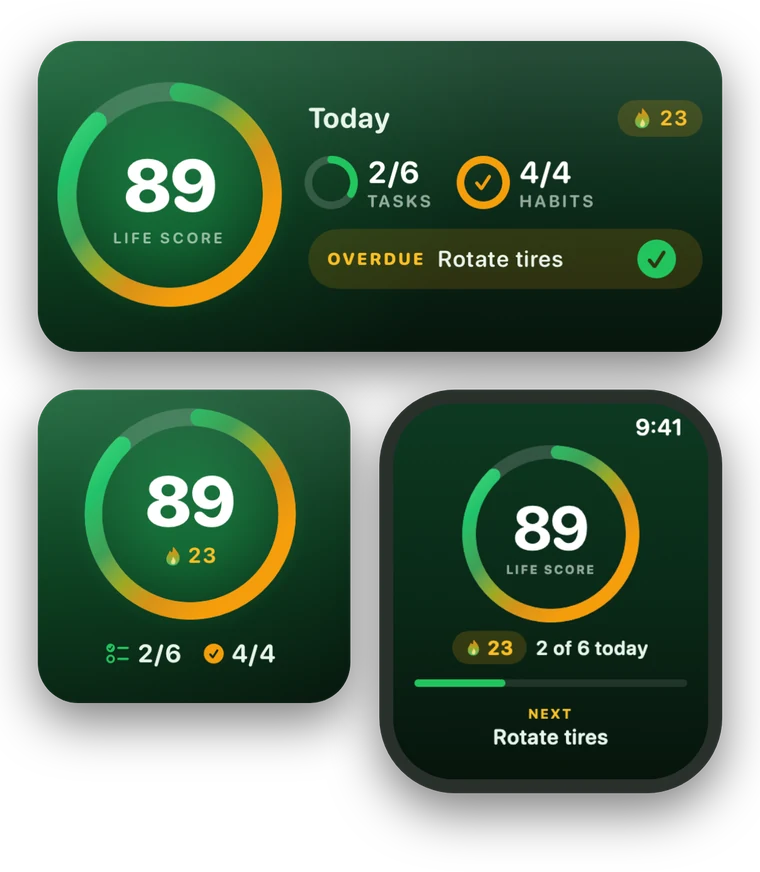
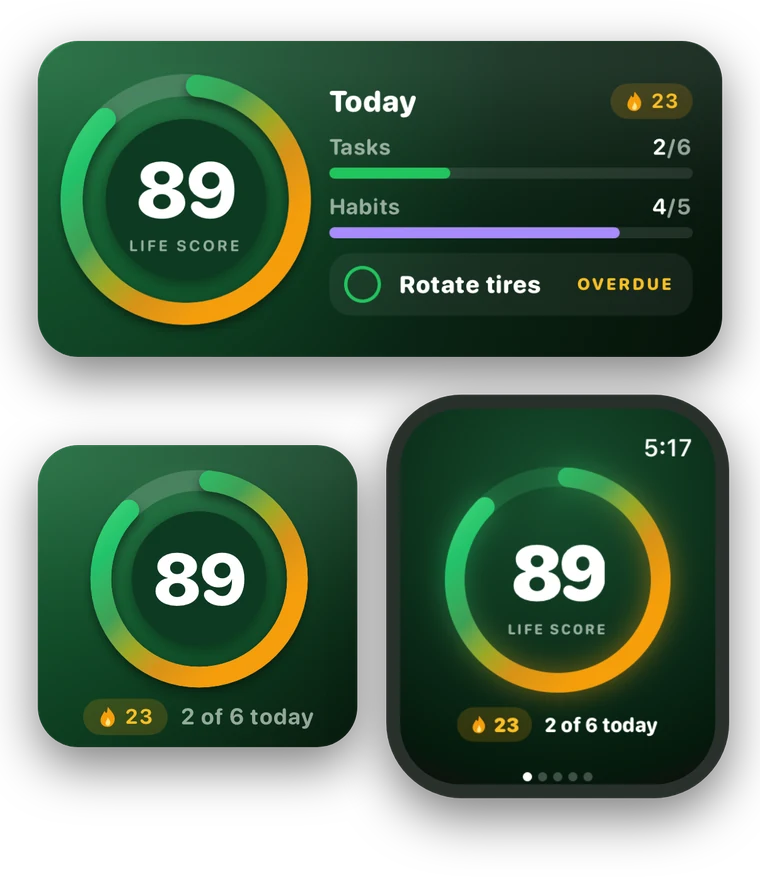
Match build 104: current app and Watch images, programs, challenges and friends cards, 49 task packs, 37 habit packs, 5 free habits

diff --git a/support/index.html b/support/index.html
@@ -69,7 +69,7 @@ footer .wrap{display:flex;justify-content:space-between;flex-wrap:wrap;gap:12px}
   </div>
 </header>
 <main class="wrap"><div class="help">
-  <h2>Getting started</h2><div class="qa"><h3>What is my Life Score?</h3><p>A number from 0 to 100 built from three things: your tasks that aren't overdue, what you've finished in the last 30 days compared with what came due, and your habit check-ins over the last 7 days. A streak adds a bonus of up to 15. Tap your score on Home to see every point and what would raise it most.</p></div><div class="qa"><h3>Why is my score already in the 50s on day one?</h3><p>For your first two weeks the score starts near the middle and settles as you complete things, so one good or bad day doesn't swing it. Every task and habit you finish still moves it. The card on Home says “Calibrating” until it has settled.</p></div><div class="qa"><h3>What's the difference between a task and a habit?</h3><p>Habits are routines you do every day, on weekdays, on weekends or once a week, and they keep a streak. Tasks are the things that come due now and then, from weekly to every few years, like changing a filter or a checkup. Anything daily is a habit.</p></div><div class="qa"><h3>Is LifeCheck medical or financial advice?</h3><p>No. LifeCheck offers general information and reminders, not medical, mental health, financial, tax, legal or other professional advice. Talk to a qualified professional about your situation. In an emergency, call 911 or your local emergency number. In the US, call or text 988 for crisis support.</p></div><div class="qa"><h3>I picked something in setup and can't find it.</h3><p>Daily picks, like “Drink water”, are in the Habits tab. Everything else is on Home.</p></div><div class="qa"><h3>What's free and what's Pro?</h3><p>Free, forever: all your tasks, 3 habits, 5 categories (Health, Home, Finance, Personal and Safety), your Life Score, the Weekly Review and 30 days of history. The five recovery programs (bet-free, alcohol-free, nicotine, cannabis and spending) are free too. Pro adds unlimited habits, all 13 categories, the other 30-day programs, Apple Health, your full history and recaps, and more. You can preview any program before deciding.</p></div><h2>Friends and challenges</h2><div class="qa"><h3>What do my friends see?</h3><p>Your name, Life Score and streak, plus the badges you earn and challenges you win. The names of tasks you complete stay private unless you turn on <b>Settings &gt; What friends see &gt; Tasks I complete</b>. Turning it off later also removes your past task posts.</p></div><div class="qa"><h3>How do challenges work?</h3><p>Start one from a template or make your own in Friends > Challenges, and invite friends. Each day you finish something that counts (a matching task or habit) is one check-in, once a day. The most check-ins at the end wins.</p></div><div class="qa"><h3>What's an Apple Health challenge?</h3><p>Challenges like 10K Steps a Day, Daily Workout or Sleep 7+ Hours check you in by themselves when Apple Health shows the goal met, the next time you open the app. Only the check-in is shared, never your health numbers. Without Apple Health connected, a matching task or habit checks you in instead.</p></div><div class="qa"><h3>Someone is bothering me.</h3><p>Tap the ⋯ next to their name, or on a challenge they started, to block or report them. Blocked people can't add you, invite you or send you notifications.</p></div><h2>Pro and purchases</h2><div class="qa"><h3>How do I cancel Pro?</h3><p>Pro is billed by Apple, so it's cancelled through Apple: <b>Settings &gt; Premium &gt; Manage subscription</b> in the app takes you straight there. You keep Pro until the end of the period you've paid for.</p></div><div class="qa"><h3>I bought Pro but it's not showing.</h3><p>Go to <b>Settings &gt; Premium &gt; Restore purchases</b>. That fixes it almost every time, and it's also what to do on a new phone or after reinstalling.</p><p>Still locked? Email us with roughly when you bought it.</p></div><h2>Your account</h2><div class="qa"><h3>How do I delete my account?</h3><p><b>Settings &gt; Account &gt; Delete Account</b>. It removes your account and its data, and can't be undone.</p></div><div class="qa"><h3>Will I lose my data if I change phones?</h3><p>Not if you have an account: sign in from <b>Settings &gt; Account</b> and your data is backed up and comes back on the new phone. Without an account it lives only on this phone.</p></div><div class="qa"><h3>Can I get a copy of my data?</h3><p>Yes: <b>Settings &gt; Health & data &gt; Export Records</b>.</p></div><h2>Streaks and your score</h2><div class="qa"><h3>I missed a day. Did I lose my streak?</h3><p>Probably not, once your streak is 3 days or longer. You get one grace day a month, and the app asks before using it (with Pro they're unlimited and used automatically). After that, streak freezes cover a missed day on their own: you earn one for every 7 days of streak and every 25 completions, and can hold up to 3.</p></div><div class="qa"><h3>I'm going away for a while.</h3><p>Turn on <b>Settings &gt; Tools &gt; Vacation pause</b> before you leave and your streak waits for you.</p></div><div class="qa"><h3>Why did my score go down?</h3><p>Usually an overdue task: those pull the score down the most. Tap your score on Home to see where every point comes from and which task would raise it most.</p></div><h2>Reminders, widgets and Watch</h2><div class="qa"><h3>How do I change when something reminds me?</h3><p>Each task and habit has its own time. Open a habit's editor and pick a reminder time, or open a task and set its reminder (custom times on tasks are part of Pro). Program reminders have their time on the program's page.</p></div><div class="qa"><h3>I'm not getting reminders.</h3><p>Check <b>Settings &gt; Notifications</b> in LifeCheck, and that notifications are allowed for LifeCheck in your iPhone's Settings. Quiet hours there will also hold them back.</p></div><div class="qa"><h3>How do I add the widget?</h3><p>Touch and hold an empty spot on your Home Screen, tap Edit, then Add Widget, and pick LifeCheck. There's a Lock Screen widget too.</p></div><div class="qa"><h3>Does it work on Apple Watch?</h3><p>Yes. Install LifeCheck from the Watch app on your iPhone, and add it to a watch face if you like.</p></div><div class="qa"><h3>How does Apple Health work with it?</h3><p>Connect it in <b>Settings &gt; Health & data &gt; Apple Health</b>. For each habit Health can confirm, like “Walk 8,000 steps”, “Get 7+ hours of sleep” or “Exercise for 30 minutes”, you choose whether it may check that habit in for you. You can also log a workout to Health when you finish a workout task. It's part of Pro, and your health data stays on your phone.</p></div><div class="qa"><h3>Is there an Android version?</h3><p>Not yet. LifeCheck is iPhone only for now.</p></div>
+  <h2>Getting started</h2><div class="qa"><h3>What is my Life Score?</h3><p>A number from 0 to 100 built from three things: your tasks that aren't overdue, what you've finished in the last 30 days compared with what came due, and your habit check-ins over the last 7 days. A streak adds a bonus of up to 15. Tap your score on Home to see every point and what would raise it most.</p></div><div class="qa"><h3>Why is my score already in the 50s on day one?</h3><p>For your first two weeks the score starts near the middle and settles as you complete things, so one good or bad day doesn't swing it. Every task and habit you finish still moves it. The card on Home says “Calibrating” until it has settled.</p></div><div class="qa"><h3>What's the difference between a task and a habit?</h3><p>Habits are routines you do every day, on weekdays, on weekends or once a week, and they keep a streak. Tasks are the things that come due now and then, from weekly to every few years, like changing a filter or a checkup. Anything daily is a habit.</p></div><div class="qa"><h3>Is LifeCheck medical or financial advice?</h3><p>No. LifeCheck offers general information and reminders, not medical, mental health, financial, tax, legal or other professional advice. Talk to a qualified professional about your situation. In an emergency, call 911 or your local emergency number. In the US, call or text 988 for crisis support.</p></div><div class="qa"><h3>I picked something in setup and can't find it.</h3><p>Daily picks, like “Drink water”, are in the Habits tab. Everything else is on Home.</p></div><div class="qa"><h3>What's free and what's Pro?</h3><p>Free, forever: all your tasks, 5 habits, 5 categories (Health, Home, Finance, Personal and Safety), your Life Score, the Weekly Review and 30 days of history. The five recovery programs (bet-free, alcohol-free, nicotine, cannabis and spending) are free too. Pro adds unlimited habits, all 13 categories, the other 30-day programs, Apple Health, your full history and recaps, and more. You can preview any program before deciding.</p></div><h2>Friends and challenges</h2><div class="qa"><h3>What do my friends see?</h3><p>Your name, Life Score and streak, plus the badges you earn and challenges you win. The names of tasks you complete stay private unless you turn on <b>Settings &gt; What friends see &gt; Tasks I complete</b>. Turning it off later also removes your past task posts.</p></div><div class="qa"><h3>How do challenges work?</h3><p>Start one from a template or make your own in Friends > Challenges, and invite friends. Each day you finish something that counts (a matching task or habit) is one check-in, once a day. The most check-ins at the end wins.</p></div><div class="qa"><h3>What's an Apple Health challenge?</h3><p>Challenges like 10K Steps a Day, Daily Workout or Sleep 7+ Hours check you in by themselves when Apple Health shows the goal met, the next time you open the app. Only the check-in is shared, never your health numbers. Without Apple Health connected, a matching task or habit checks you in instead.</p></div><div class="qa"><h3>Someone is bothering me.</h3><p>Tap the ⋯ next to their name, or on a challenge they started, to block or report them. Blocked people can't add you, invite you or send you notifications.</p></div><h2>Pro and purchases</h2><div class="qa"><h3>How do I cancel Pro?</h3><p>Pro is billed by Apple, so it's cancelled through Apple: <b>Settings &gt; Premium &gt; Manage subscription</b> in the app takes you straight there. You keep Pro until the end of the period you've paid for.</p></div><div class="qa"><h3>I bought Pro but it's not showing.</h3><p>Go to <b>Settings &gt; Premium &gt; Restore purchases</b>. That fixes it almost every time, and it's also what to do on a new phone or after reinstalling.</p><p>Still locked? Email us with roughly when you bought it.</p></div><h2>Your account</h2><div class="qa"><h3>How do I delete my account?</h3><p><b>Settings &gt; Account &gt; Delete Account</b>. It removes your account and its data, and can't be undone.</p></div><div class="qa"><h3>Will I lose my data if I change phones?</h3><p>Not if you have an account: sign in from <b>Settings &gt; Account</b> and your data is backed up and comes back on the new phone. Without an account it lives only on this phone.</p></div><div class="qa"><h3>Can I get a copy of my data?</h3><p>Yes: <b>Settings &gt; Health & data &gt; Export Records</b>.</p></div><h2>Streaks and your score</h2><div class="qa"><h3>I missed a day. Did I lose my streak?</h3><p>Probably not, once your streak is 3 days or longer. You get one grace day a month, and the app asks before using it (with Pro they're unlimited and used automatically). After that, streak freezes cover a missed day on their own: you earn one for every 7 days of streak and every 25 completions, and can hold up to 3.</p></div><div class="qa"><h3>I'm going away for a while.</h3><p>Turn on <b>Settings &gt; Tools &gt; Vacation pause</b> before you leave and your streak waits for you.</p></div><div class="qa"><h3>Why did my score go down?</h3><p>Usually an overdue task: those pull the score down the most. Tap your score on Home to see where every point comes from and which task would raise it most.</p></div><h2>Reminders, widgets and Watch</h2><div class="qa"><h3>How do I change when something reminds me?</h3><p>Each task and habit has its own time. Open a habit's editor and pick a reminder time, or open a task and set its reminder (custom times on tasks are part of Pro). Program reminders have their time on the program's page.</p></div><div class="qa"><h3>I'm not getting reminders.</h3><p>Check <b>Settings &gt; Notifications</b> in LifeCheck, and that notifications are allowed for LifeCheck in your iPhone's Settings. Quiet hours there will also hold them back.</p></div><div class="qa"><h3>How do I add the widget?</h3><p>Touch and hold an empty spot on your Home Screen, tap Edit, then Add Widget, and pick LifeCheck. There's a Lock Screen widget too.</p></div><div class="qa"><h3>Does it work on Apple Watch?</h3><p>Yes. Install LifeCheck from the Watch app on your iPhone, and add it to a watch face if you like.</p></div><div class="qa"><h3>How does Apple Health work with it?</h3><p>Connect it in <b>Settings &gt; Health & data &gt; Apple Health</b>. For each habit Health can confirm, like “Walk 8,000 steps”, “Get 7+ hours of sleep” or “Exercise for 30 minutes”, you choose whether it may check that habit in for you. You can also log a workout to Health when you finish a workout task. It's part of Pro, and your health data stays on your phone.</p></div><div class="qa"><h3>Is there an Android version?</h3><p>Not yet. LifeCheck is iPhone only for now.</p></div>
   <p class="end">Something else, or something broken? Email <a href="mailto:thelifecheckapp@gmail.com?subject=LifeCheck%20help">thelifecheckapp@gmail.com</a><button type="button" id="copy">Copy</button>.
   Your iPhone model and what you were doing when it happened help a lot. For privacy requests, use the subject line "Privacy Request", and see the <a href="/privacy/">privacy policy</a>.</p>
 </div></main>

diff --git a/index.html b/index.html
@@ -4,12 +4,12 @@
 <meta charset="utf-8">
 <meta name="viewport" content="width=device-width, initial-scale=1, viewport-fit=cover">
 <title>LifeCheck: Score Your Life</title>
-<meta name="description" content="The adult to-do list you never had to write. 450+ tasks for home, car, health and money, each with when and why, and one honest Life Score for how you're doing.">
+<meta name="description" content="The adult to-do list you never had to write. 750+ tasks for home, car, health and money, each with when and why, and one honest Life Score for how you're doing.">
 <link rel="canonical" href="https://thelifecheckapp.com/">
 <meta property="og:type" content="website">
 <meta property="og:site_name" content="LifeCheck">
 <meta property="og:title" content="LifeCheck: Score Your Life">
-<meta property="og:description" content="450+ tasks adults forget, already written, and one honest Life Score for how you're doing.">
+<meta property="og:description" content="750+ tasks adults forget, already written, and one honest Life Score for how you're doing.">
 <meta property="og:url" content="https://thelifecheckapp.com/">
 <meta property="og:image" content="https://thelifecheckapp.com/assets/link-card-prelaunch.png">
 <meta property="og:image:width" content="1200"><meta property="og:image:height" content="630">
@@ -103,7 +103,7 @@ footer a{color:var(--mut)}
   <div class="wrap">
     <div>
       <h1>What's your <em>Life&nbsp;Score?</em></h1>
-      <p class="lede">The adult to-do list you never had to write. 450+ tasks for home, car, health and money, each with when and why, and one honest number for how you're doing.</p>
+      <p class="lede">Your habits, plus the adult to-do list you never had to write. 750+ tasks for home, car, health, money and more, each with when and why, and one honest number for how you're doing.</p>
       <div class="pre-only">
         <form class="signup" data-source="hero" novalidate>
           <label class="hp" aria-hidden="true">Leave this empty <input name="hp" tabindex="-1" autocomplete="off"></label>
@@ -124,21 +124,27 @@ footer a{color:var(--mut)}
   <div class="head">
     <div class="eyebrow">How it works</div>
     <h2>It comes with the answers.</h2>
-    <p class="sub">Most apps hand you an empty list. LifeCheck comes with 450+ tasks in 20 packs, each with a schedule and a reason it matters. Do them, and your Life Score goes up.</p>
+    <p class="sub">Most apps hand you an empty list. LifeCheck comes with 750+ tasks in 49 packs, plus 37 habit packs, each with a schedule and a reason it matters. Do them, and your Life Score goes up.</p>
   </div>
   <div class="grid">
-    <article class="card"><div class="pic"><img src="/assets/m-packs.webp" alt="Explore Packs: Preventive Health and Home Owner Basics" width="700" height="1242" loading="lazy"></div>
-      <h3>450+ tasks, already written</h3><p>Home, car, health and money. Pick packs, or take a 90-second Life Audit.</p></article>
-    <article class="card"><div class="pic"><img src="/assets/m-tips.webp" alt="Check tire pressure, with a tip on why it matters" width="700" height="1242" loading="lazy"></div>
-      <h3>Every task explains itself</h3><p>When it's due, and one short line on why it matters.</p></article>
+    <article class="card"><div class="pic"><img src="/assets/m-packs.webp" alt="Explore Packs: section chips, habit packs and task packs" width="700" height="1242" loading="lazy"></div>
+      <h3>750+ tasks, already written</h3><p>49 task packs and 37 habit packs, sorted by Health, Home &amp; Car, Money, Family, Work &amp; School and Life. Or take a 90-second Life Audit.</p></article>
+    <article class="card"><div class="pic"><img src="/assets/m-tips.webp" alt="Clean dryer vent, with a tip on why it matters" width="700" height="1242" loading="lazy"></div>
+      <h3>Every task explains itself</h3><p>When it’s due, and one short line on why it matters. Swipe left to snooze or delete.</p></article>
     <article class="card"><div class="pic"><img src="/assets/m-score.webp" alt="Where your points come from" width="700" height="1242" loading="lazy"></div>
-      <h3>One honest number, explained</h3><p>See where every point comes from, and the task that would raise it most.</p></article>
+      <h3>One honest number, explained</h3><p>See where every point comes from, and the one task that would raise it most today.</p></article>
     <article class="card"><div class="pic"><img src="/assets/m-habits.webp" alt="Daily habits with streaks" width="700" height="1242" loading="lazy"></div>
-      <h3>Habits that survive real life</h3><p>Daily habits count too. Grace days and streak freezes cover the odd miss.</p></article>
-    <article class="card"><div class="pic"><img src="/assets/m-weekly.webp" alt="Weekly review: 27 done last week" width="700" height="1242" loading="lazy"></div>
+      <h3>Habits that survive real life</h3><p>Tap a card to check in and keep your streak. Grace days and streak freezes cover the odd miss.</p></article>
+    <article class="card"><div class="pic"><img src="/assets/m-programs.webp" alt="30-Day Programs: Bet-Free 30, free for everyone" width="700" height="1242" loading="lazy"></div>
+      <h3>30 days, one step a day</h3><p>Five recovery programs are free for everyone: bet-free, alcohol-free, nicotine, cannabis and spending. Pro adds 12 more.</p></article>
+    <article class="card"><div class="pic"><img src="/assets/m-challenge.webp" alt="Create Challenge: 10K Steps a Day" width="700" height="1242" loading="lazy"></div>
+      <h3>Challenges with friends</h3><p>Start from a template like 10K Steps a Day and invite your friends. With Pro, Apple Health can check you in.</p></article>
+    <article class="card"><div class="pic"><img src="/assets/m-friends.webp" alt="Settings: what friends see" width="700" height="1242" loading="lazy"></div>
+      <h3>Friends see your wins</h3><p>Badges and challenge wins are shared. Task names stay private unless you turn them on.</p></article>
+    <article class="card"><div class="pic"><img src="/assets/m-weekly.webp" alt="Weekly review: 28 done last week" width="700" height="1242" loading="lazy"></div>
       <h3>Every week, a clear win</h3><p>What you got done, where it went, and what to do next.</p></article>
-    <article class="card"><div class="pic glance"><img src="/assets/m-glance.webp" alt="Home Screen widgets and Apple Watch" width="760" height="872" loading="lazy"></div>
-      <h3>On your wrist and Home Screen</h3><p>Widgets, Lock Screen, Live Activity and Apple Watch.</p></article>
+    <article class="card"><div class="pic glance"><img src="/assets/m-glance.webp" alt="Home Screen widgets and the Apple Watch app" width="760" height="880" loading="lazy"></div>
+      <h3>On your wrist and Home Screen</h3><p>Your score, streak and next task on widgets, the Lock Screen, a Live Activity and Apple Watch. Tap Done from your wrist.</p></article>
   </div>
 </div></section>
 
@@ -149,16 +155,16 @@ footer a{color:var(--mut)}
   </div>
   <div class="plans">
     <div class="plan"><h3>Free</h3><p>Everything you need to get your score going.</p>
-      <ul><li>5 life areas and 3 daily habits</li><li>Home Owner Basics, Preventive Health and Gambling Recovery packs</li><li>5 recovery programs: bet-free, alcohol-free, nicotine, cannabis and spending</li><li>Screening reminders, free on every plan</li><li>Friends, challenges and the weekly review</li><li>Widgets and Apple Watch</li></ul></div>
+      <ul><li>5 life areas and 5 habits</li><li>11 task packs, including Preventive Health, Men’s and Women’s Health, Mental Wellbeing, Money Basics, Renter and Adulting 101</li><li>15 habit packs (add up to your 5 habits)</li><li>5 recovery programs: bet-free, alcohol-free, nicotine, cannabis and spending</li><li>Screening reminders, free on every plan</li><li>Friends, challenges and the weekly review</li><li>Widgets and Apple Watch</li></ul></div>
     <div class="plan pro"><h3>Pro</h3><p>Monthly, yearly or one-time lifetime. Prices are in the App Store.</p>
-      <ul><li>All 13 areas and all 20 packs</li><li>Unlimited habits and 12 more guided 30-day programs</li><li>22 more Life Audits and unlimited Your Things</li><li>Apple Health checks off step, sleep and workout habits and challenges</li><li>Full history, Annual Report and Streak Recovery</li></ul></div>
+      <ul><li>All 13 areas, all 49 task packs and all 37 habit packs</li><li>Unlimited habits and 12 more guided 30-day programs</li><li>22 more Life Audits and unlimited Your Things</li><li>Apple Health checks off step, sleep and workout habits and challenges</li><li>Full history, Annual Report and Streak Recovery</li></ul></div>
   </div>
 </div></section>
 
 <section><div class="wrap">
   <div class="head"><div class="eyebrow">Questions</div><h2>Short answers.</h2></div>
   <div class="faq">
-    <details><summary>Is LifeCheck free?</summary><p>Yes. The free plan covers 5 life areas, 3 habits, three task packs and the five recovery programs, with no time limit. Pro unlocks the rest.</p></details>
+    <details><summary>Is LifeCheck free?</summary><p>Yes. The free plan covers 5 life areas, 5 habits, 11 task packs, 15 habit packs and the five recovery programs, with no time limit. Pro unlocks the rest.</p></details>
     <details><summary>Which devices does it run on?</summary><p>iPhone, with widgets, a Lock Screen widget, a Live Activity and an Apple Watch app. Android isn't available yet.</p></details>
     <details><summary>Is it a habit tracker?</summary><p>It includes daily habits, but most of LifeCheck is the less frequent stuff: the yearly, monthly and seasonal tasks that keep a home, car, body and budget in good shape.</p></details>
     <details><summary>What happens to my data?</summary><p>Read the <a href="/privacy/">privacy policy</a>. You can delete your account and its data from inside the app at any time.</p></details>
